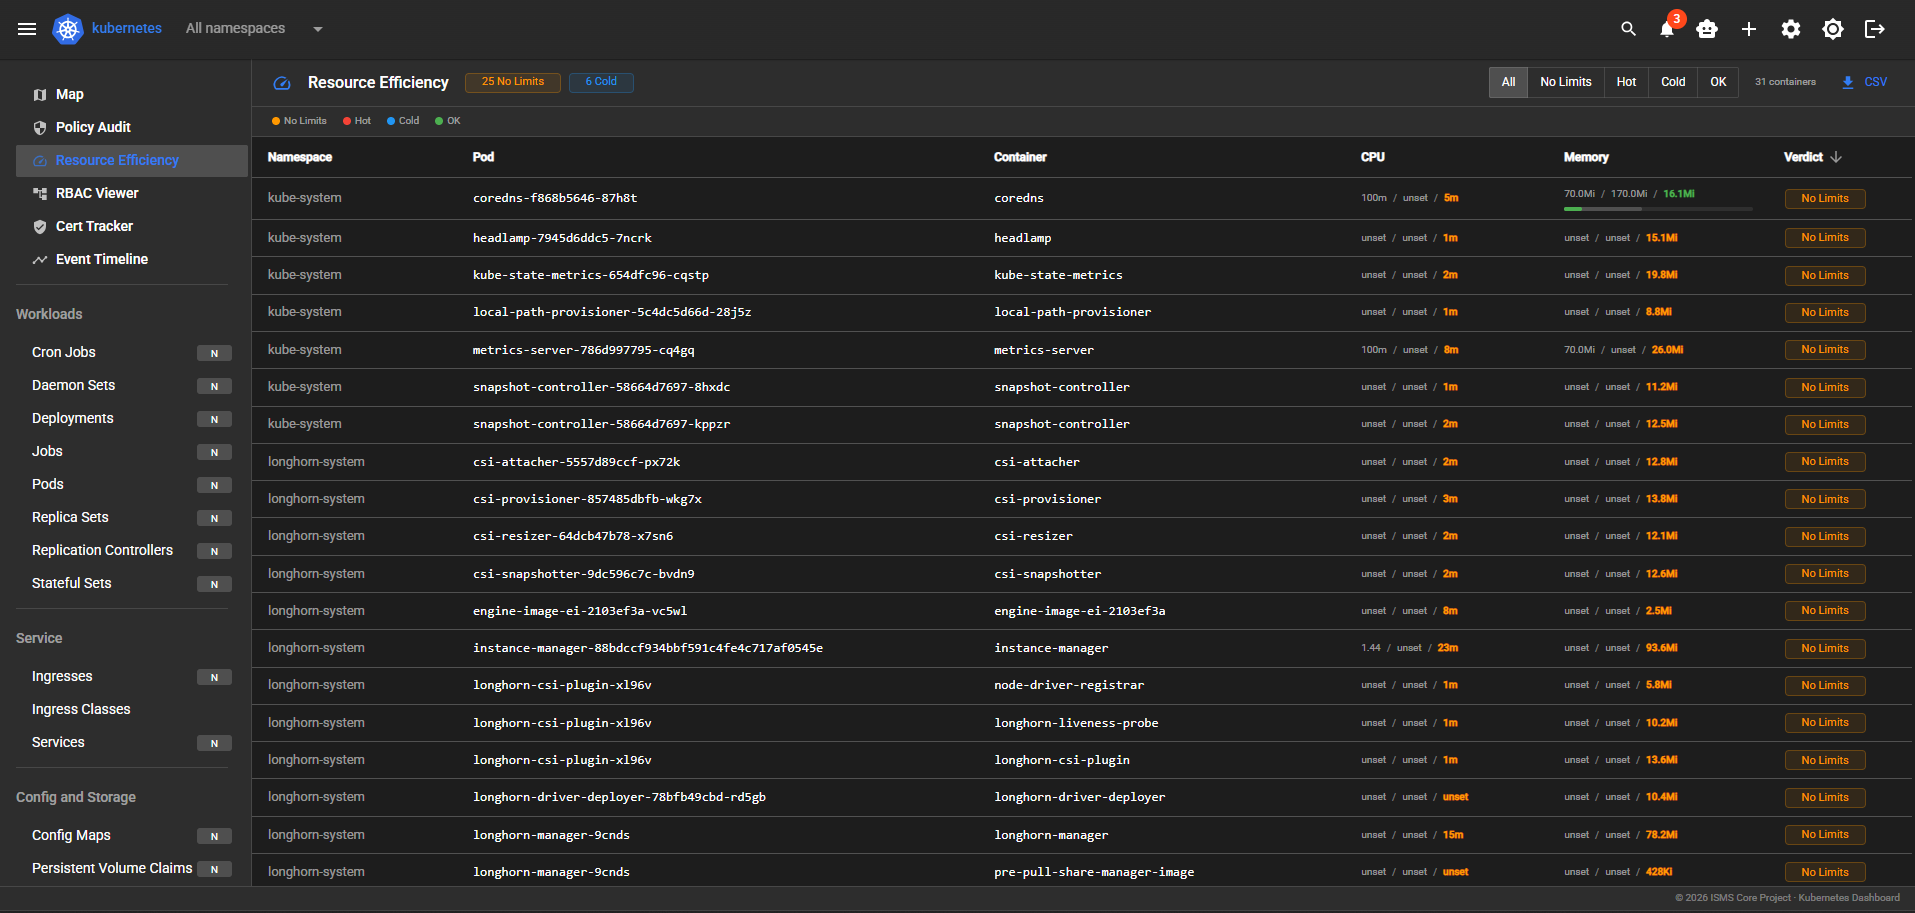
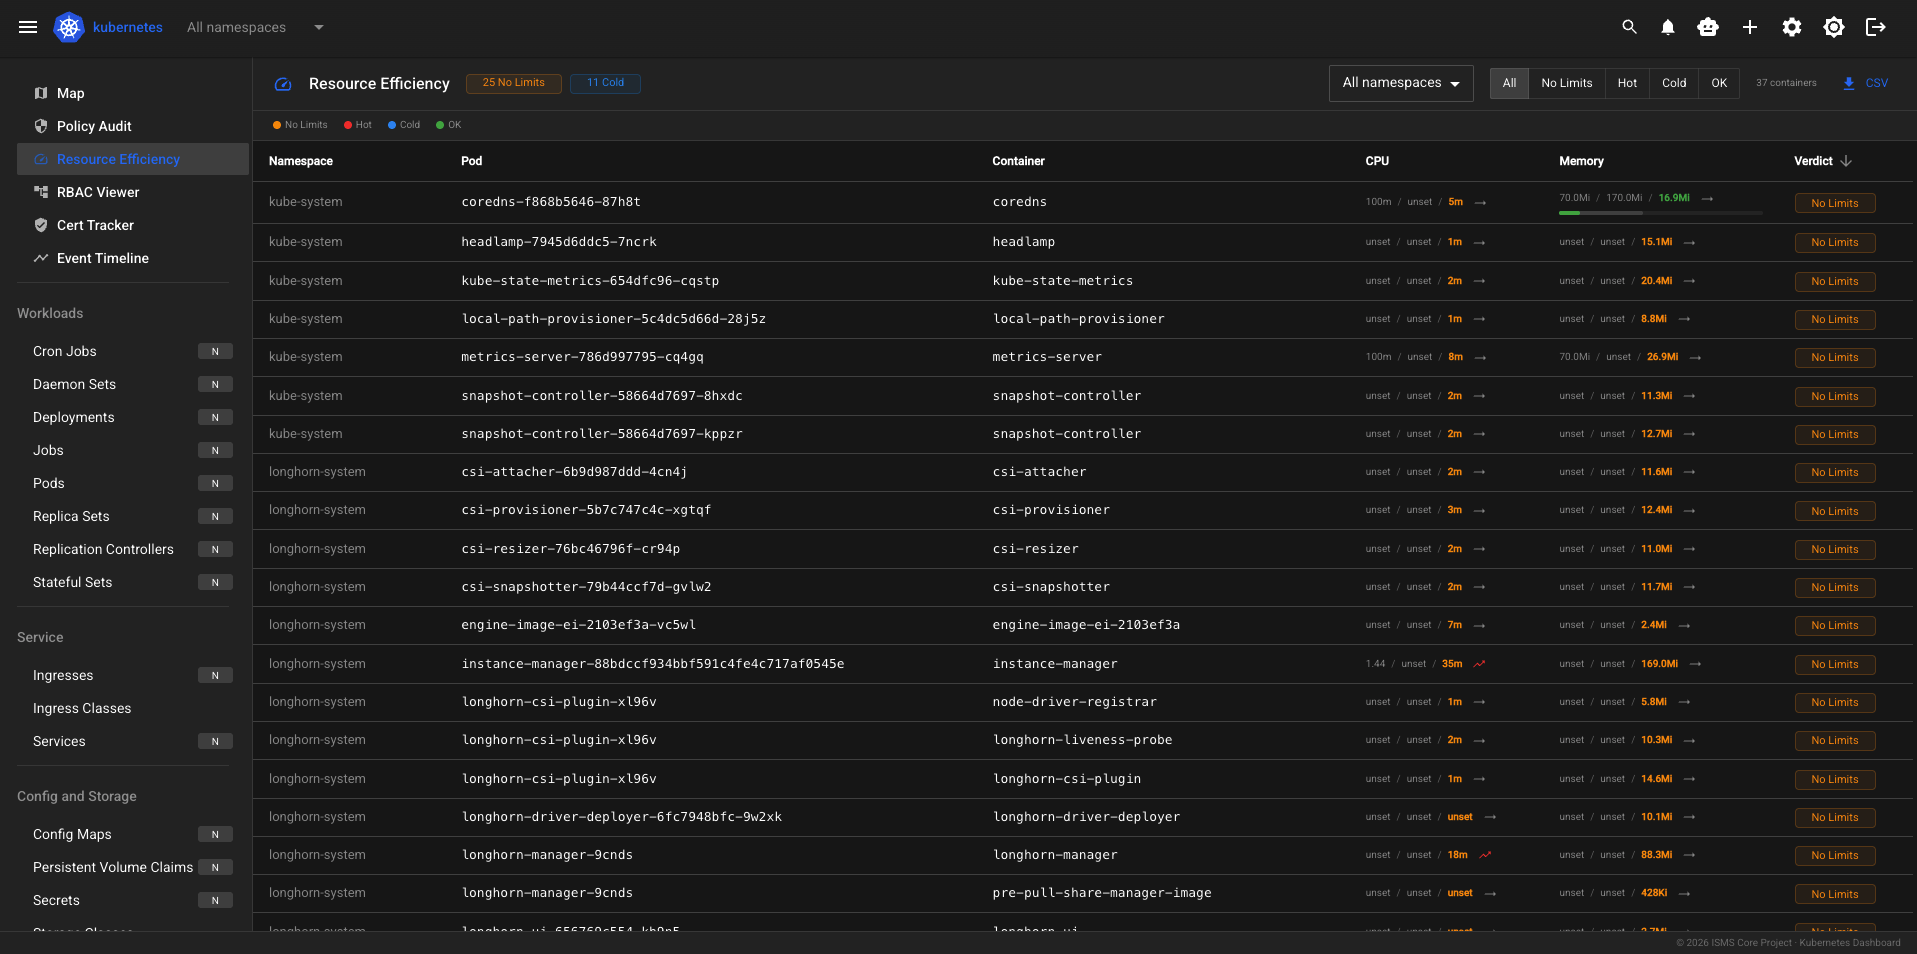
docs: add screenshots for Projects, Kubescape, VictoriaMetrics, PVC; update existing

diff --git a/README.md b/README.md
@@ -56,6 +56,26 @@ Live cluster event feed with time-bucket grouping, Warning highlighting, namespa
 
 ![Event timeline](screenshots/k8s_dashboard_events_timeline.png)
 
+### Application Projects
+Per-namespace project cards with pod health, workload counts, and CPU/memory request totals. System namespaces hidden by default.
+
+![Application projects](screenshots/k8s_dashboard_projects.png)
+
+### Kubescape Security
+Compliance scores and CVE findings per workload — auto-detected when Kubescape Operator is running.
+
+![Kubescape config scan](screenshots/k8s_dashboard_kubescape.png)
+
+### VictoriaMetrics Sparklines
+Pod CPU and memory sparklines with 1h/6h/24h/7d time range selector — opt-in via `VM_ENDPOINT`.
+
+![VictoriaMetrics sparklines](screenshots/k8s_dashboard_victoriametrics.png)
+
+### PVC Storage Usage
+Persistent Volume Claims with live usage bars sourced from the metrics server.
+
+![PVC storage usage](screenshots/k8s_dashboard_pvc.png)
+
 ---
 
 ## Architecture